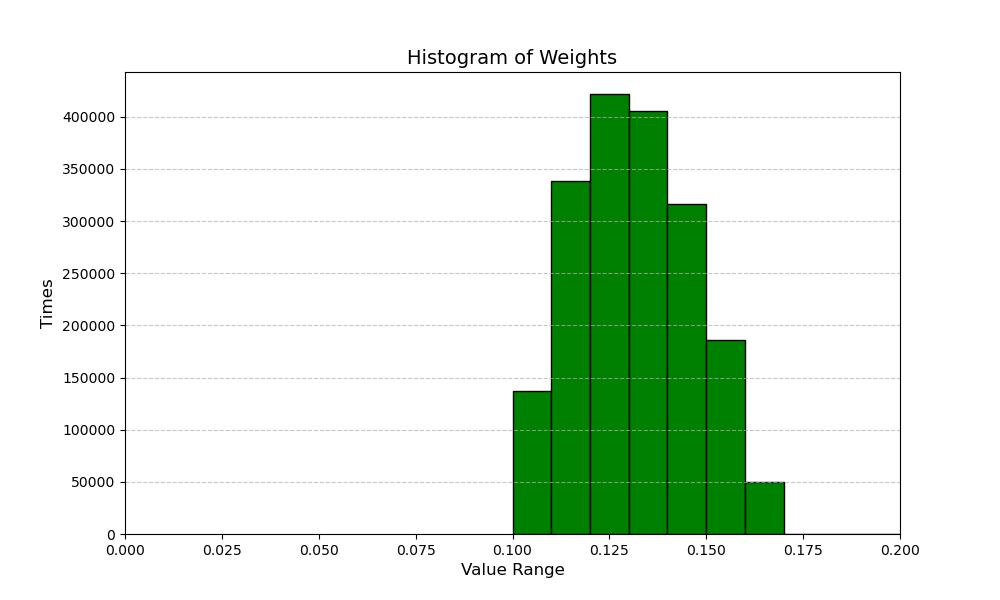
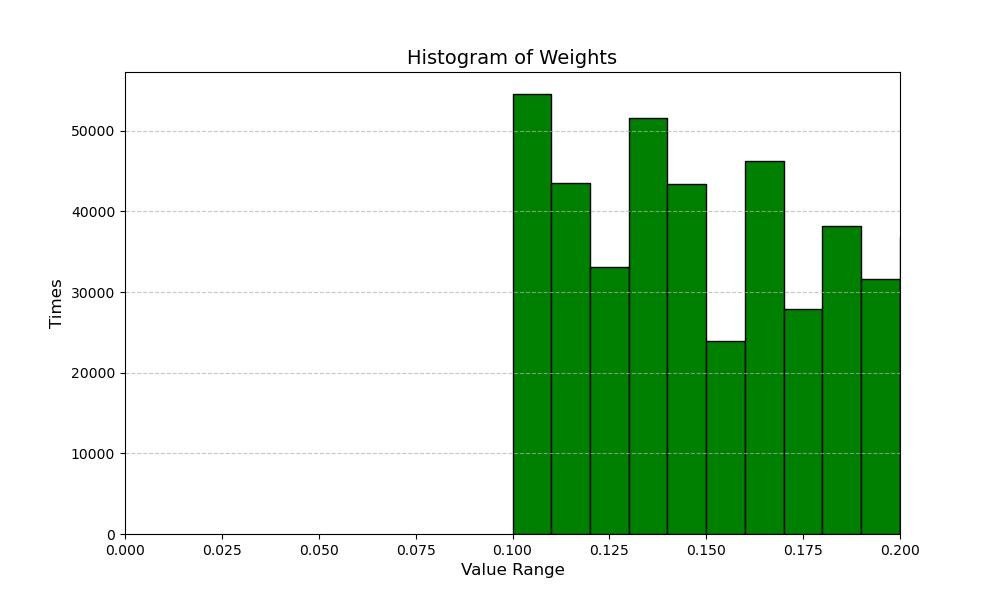
Small updates.

diff --git a/utils/image_process.py b/utils/image_process.py
@@ -92,8 +92,8 @@ def affine_and_integral_ti(points: ti.template(),
                 img_fld = fast_affine_and_trim_ti(q1, q2, gray_image)  # get the corresponding color and limit into X Y
                 h = fast_convolution_ti(dog_kernel, gaussian_kernel, img_fld)  # convolution
                 h = 1.0 + ti.select(h < 0.0, ti.math.tanh(h), 0.0)
-                dist = ti.math.distance(p2_p1, q2_q1)
-                weights[i, j, k] = dist * one_divide_r_squared + alpha * h  # weights
+                diff = p2_p1 - q2_q1
+                weights[i, j, k] = ti.math.dot(diff, diff) * one_divide_r_squared + alpha * h  # weights
 
 
 @ti.func
@@ -118,11 +118,11 @@ def fast_affine_and_trim_ti(q1: ti.types.vector(2, ti.f64),
     img_trim = ti.Matrix.zero(ti.f64, 16, 10)
     start_x = ti.i32(m_new_homo[0] - (img_trim.m >> 1))
     start_y = ti.i32(m_new_homo[1] - (img_trim.n >> 1))
-    for i, j in ti.ndrange(img_trim.n, img_trim.m):
+    for i, j in ti.ndrange(16, 10):
         # use inverse affine matrix to find the original coordinate
         org_coord = affine_inverse @ ti.Vector([start_x + j, start_y + i, 0.0], dt=ti.f64)
-        x = ti.i32(org_coord.x)
-        y = ti.i32(org_coord.y)
+        x = ti.i32(org_coord[0])
+        y = ti.i32(org_coord[1])
         # whether the point is in the range of picture
         valid = (x >= 0) & (x < gray_image.shape[1]) & (y >= 0) & (y < gray_image.shape[0])
         img_trim[i, j] = ti.select(valid, gray_image[y, x], 0.0)
@@ -145,6 +145,6 @@ def fast_convolution_ti(dog_kernel: ti.types.matrix(n=1, m=3, dtype=ti.f64),
     for i, j in ti.ndrange(gs_fld.n, gs_fld.m):
         temp = ti.f64(0.0)
         for ki, kj in ti.ndrange(3, 3):
-            temp += img_fld[i + ki, j + kj] * gaussian_kernel[ki, kj]
+            temp += dog_fld[i + ki, j + kj] * gaussian_kernel[ki, kj]
         gs_fld[i, j] = temp
     return gs_fld.sum()

diff --git a/line_drawer.py b/line_drawer.py
@@ -1,18 +1,18 @@
+import random
+import time
 from typing import Callable
 
 import colorama
 import cv2
 import numpy as np
 import scipy
-from pypattyrn.creational.singleton import Singleton
 import taichi as ti
-import random
-import time
-import cProfile
-import utils.logging as log
+from pypattyrn.creational.singleton import Singleton
+
 import utils.image_process as ip
-import utils.yaml_reader as yr
+import utils.logging as log
 import utils.statistics as st
+import utils.yaml_reader as yr
 from test_func import test_img_show
 
 
@@ -124,7 +124,7 @@ class LineDrawer(metaclass=Singleton):
         self.img_work_on = self.img_origin.copy()
         self.img_save_point = self.img_origin.copy()
         self.image_pre_process().setup()
-        weights = {}
+        self.weights = {}
         self.current_stroke = []
         self.all_strokes = []
         # no need for all candidates to be re-initialized
@@ -252,8 +252,11 @@ class LineDrawer(metaclass=Singleton):
         # gs_results_field.fill(0.0)
         # running taichi kernel function
         start = time.time_ns()
+        ti.sync()
         ip.affine_and_integral_ti(current_stroke_ti, current_candidates_ti, gray_image_ti,
                                   dog_kernel_ti, gaussian_kernel_ti, self.picking_radius, self.alpha, weights)
+        ti.profiler.print_scoped_profiler_info()
+        ti.profiler.print_kernel_profiler_info('trace')
         log.printLog(0, f"Integral costs {(time.time_ns() - start) / 1e9}s.", False)
         st.plot_taichi_data(weights)
         return self
